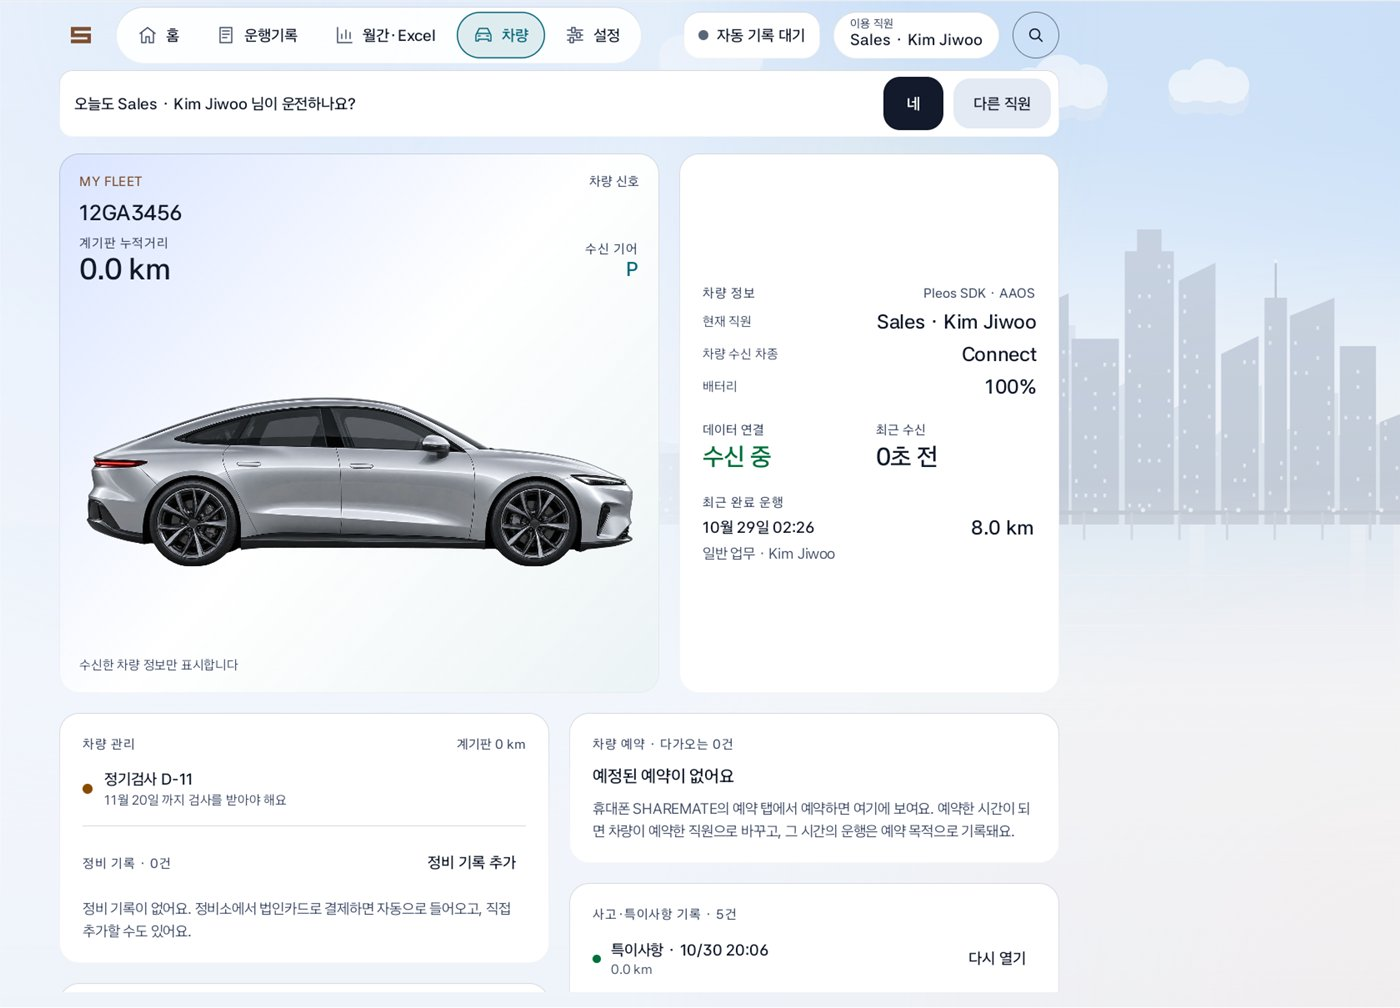
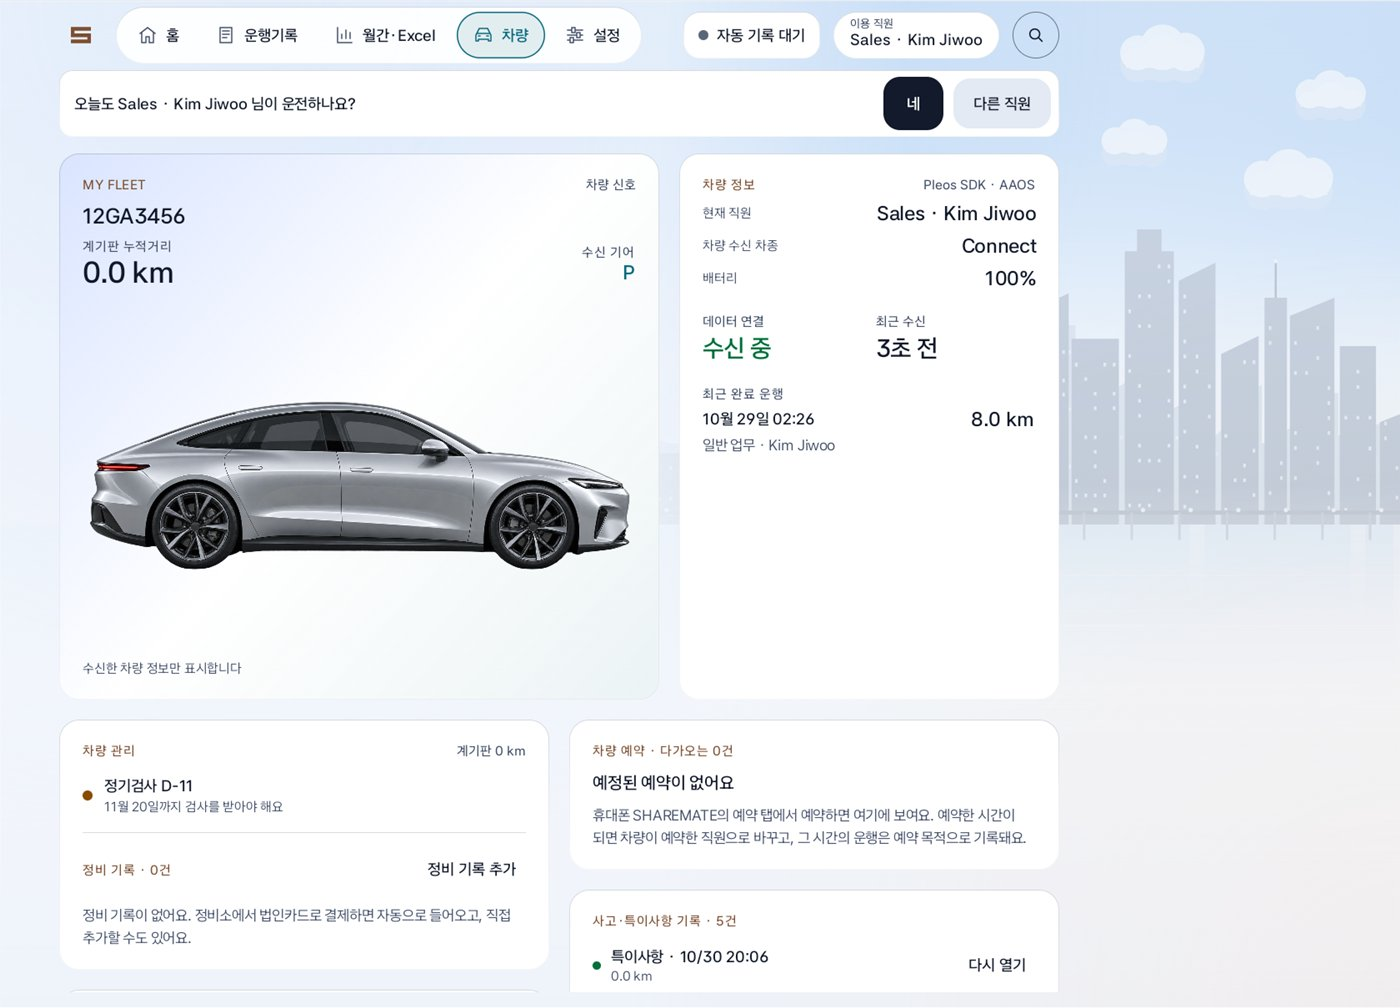
2.10 docs: screenshots and demo GIFs from the reviewed build, full verification record
- README: all 18 screenshots and both demo GIFs re-recorded on the build after the
  second review round. The car logbook shows October with a trip open, 월간·Excel shows
  the 올해 sheet preview, and phone 현황 shows the closed October. The scene bullet
  mentions the car light sensor.
- CORPORATE_LOGBOOK 2.10: the scene section adds the quiet-moment gate, the light-sensor
  veto, the process-level latch and configChanges. Layout adds the two-row narrow header,
  the one-scroll 월간·Excel and the paged preview. Motion adds keyed sweeps and the
  reduced-motion press. The verification record lists 357 tests, lint 0 errors and 15
  warnings, the design / code / accessibility review rounds and the emulator checks.

diff --git a/CORPORATE_LOGBOOK.md b/CORPORATE_LOGBOOK.md
@@ -8,14 +8,17 @@
 - **설정:** 차량 설정 › 기록, 휴대폰 설정의 ‘화면 분위기’에서 자동 · 낮 · 밤을 고릅니다. 선택은 기기의 환경설정에만 저장되고 운행일지 파일에는 들어가지 않습니다. 아래 한 줄이 지금 어느 장면인지, 언제 바뀌는지 말해 줍니다.
 - **낮 팔레트:** 하늘색 바탕(#EEF3FA) 위 흰 유리, 잉크 남색 글자(#121A2B), 활성 표시는 짙은 청록(#0B6B7E). 글자 색은 모두 흰 유리와 낮 바탕 위에서 WCAG AA 4.5:1 이상이고(SceneTest가 계산), 상태색(수신 중 초록 #00703C, 오류 빨강 #C62B0C)과 테두리(#6B7786), 선택 표시(채움 + 1.5 dp 테두리, 색만으로 구분하지 않음)를 따로 둡니다. 밤 팔레트는 2.8 그대로입니다.
 - **낮 도시:** 같은 스카이라인 형상을 아침 빛으로 칠합니다. 파란 하늘에서 따뜻한 지평선 안개로, 낮은 해와 구름, 옅은 푸른 건물과 물 위 반사. 인사말 뒤에는 흰 안개를 깔아 글자가 하늘 위에서도 읽힙니다. 해 질 무렵은 2.8의 주황 지평선, 밤은 더 어둡고 별이 많습니다.
-- **장면 전환:** 색을 중간값으로 섞지 않고 **페이드 스루**로 바꿉니다. 내용이 잠깐 바탕색으로 가라앉고, 팔레트·Material 색·Pleos 상태색·하늘이 한 번에 바뀐 뒤 내용이 다시 나타납니다(자동 800 ms, 설정에서 눌렀을 때 480 ms). 해는 제자리로 떠오르고 달은 가라앉습니다. 애니메이션 축소 설정에서는 즉시 바뀝니다. 주행 중에는 장면을 바꾸지 않고 정차 뒤에 적용합니다.
+- **장면 전환:** 색을 중간값으로 섞지 않고 **페이드 스루**로 바꿉니다. 내용이 잠깐 바탕색으로 가라앉고, 팔레트·Material 색·Pleos 상태색·하늘이 한 번에 바뀐 뒤 내용이 다시 나타납니다(자동 800 ms, 설정에서 눌렀을 때 480 ms). 해 질 무렵과 밤은 팔레트가 같아 내용을 가리지 않고 하늘만 교차합니다(`sceneChangeNeedsScrim`). 해는 제자리로 떠오르고 달은 가라앉습니다. 애니메이션 축소 설정에서는 즉시 바뀝니다. 주행 중에는 장면을 바꾸지 않고 정차 뒤에 적용합니다.
+- **조용한 순간에만:** 시계나 조도 센서로 생긴 변경은 3초 동안 화면을 만지지 않고, 입력 중인 칸이 없고, 창이 앞에 있을 때 적용합니다. 설정에서 자동 · 낮 · 밤을 누르면 바로 바뀝니다(`sceneChangeWait`).
+- **터널·지하 주차장(차량):** 자동 모드에서 차량의 조도 센서가 어둡다고 알리면(시스템 야간 모드) 90초 뒤 낮이나 해 질 무렵 화면도 밤으로 바꾸고, 밝아진 뒤 90초가 지나면 돌아옵니다. 밤으로 바꾸는 것은 10분에 한 번까지라 그늘을 지날 때마다 깜빡이지 않고, 그동안 설정 카드에 ‘지금은 터널·주차장이라 밤 화면이에요’가 보입니다. 낮이나 밤을 직접 고른 경우에는 따르지 않습니다(`sensorVetoStep`).
+- **다시 만들어져도 같은 장면:** 장면은 프로세스 단위로 기억해(`SceneController`) 주행 중 창이 다시 만들어져도 시계 기준 장면으로 튀지 않습니다. 세 Activity가 야간 모드·회전·크기 변경을 직접 받아(manifest `configChanges`) 화면을 새로 만들지 않습니다.
 - **시스템 막대:** 휴대폰 상태 표시줄 아이콘이 장면을 따라 낮에는 어둡게, 밤에는 밝게 바뀝니다.
 
 ## 2.10 여백과 배치
 
 - **폭 등급:** 차량 COMPACT(760 dp 미만) · MEDIUM · EXPANDED · FULL(1400 dp 이상, Pleos 전체 창). FULL에서는 양옆 여백 72 dp, 내용 폭 최대 1200 dp를 왼쪽에 붙이고 오른쪽 408 dp는 하늘로 남깁니다. 휴대폰은 COMPACT(600 미만) · MEDIUM(가로) · EXPANDED(태블릿)에서 내용을 가운데 두고 600 / 760 dp로 제한합니다. 높이도 SHORT(600 미만) · MEDIUM · TALL로 나눠 낮은 창에서는 히어로를 줄이고 시계를 머리줄로 올립니다. 글꼴 배율 1.3에서는 폭을 배율로 나눠 등급을 정하므로 큰 글꼴이 좁은 배치를 부르지 않습니다(`Layout.kt`).
 - **차량 홈:** 인사말 열 720 dp, 세 버튼이 1200 dp 열 안에 24 dp 간격으로, 위젯 둘이 그 아래. 가득 채우지 않습니다. 1.3배 글꼴에서는 버튼이 2 + 1로 접힙니다.
-- **다른 화면:** 운행기록(목록 560 + 상세), 월간·Excel(마감 카드 최대 760), 차량(차량 카드 720 + 정보 열), 설정(폼 최대 720)도 같은 여백과 최대 폭을 따르고, 좁거나 낮은 창에서는 한 열로 접힙니다.
+- **다른 화면:** 운행기록(목록 560 + 상세), 월간·Excel(마감 카드 최대 760), 차량(차량 카드 720 + 정보 열), 설정(폼 최대 720)도 같은 여백과 최대 폭을 따르고, 좁거나 낮은 창에서는 한 열로 접힙니다. 좁은 차량 창에서는 머리줄이 두 줄(로고·탭 / 상태·시계·직원)이 됩니다. 월간·Excel은 한 번에 스크롤되고, Excel 미리보기는 받은 높이에 들어가는 행 수로 페이지를 나눕니다(`previewRowsPerPage`). 휴대폰에서 Excel 시트 탭 다섯 개가 한 줄에 넘치면 폭을 나눠 씁니다.
 - **휴대폰:** 홈 카드 2×2, 가로 모드에서는 왼쪽 80 dp 유리 레일 탭과 인사말 왼쪽 · 카드 오른쪽, 태블릿에서는 카드 넷을 한 줄에, 1.3배 글꼴에서는 한 줄에 하나. 예약·운행·경비·현황과 시트도 같은 간격 체계를 쓰고 600 dp 이상에서는 두 열이나 폭 제한으로 늘어납니다.
 
 ## 2.10 움직임
@@ -24,25 +27,37 @@
 - **탭·구간:** 불이 켜진 알약이 미끄러지고(180 ms) 페이지는 24 dp 옆으로 밀리며 바뀝니다(220 ms). 머리줄·탭바·하늘은 움직이지 않습니다.
 - **처음 나타남:** 카드와 목록이 위에서 아래로 40 ms 간격으로 떠오릅니다(차량 5개, 휴대폰 8개까지). 돌아왔을 때나 동기화로 바뀔 때는 움직이지 않습니다.
 - **숫자:** 위젯 숫자와 건수는 옛 숫자가 사라지며 새 숫자가 6 dp 떠오릅니다(160 ms, `DigitChange`). 계기판·거리·배터리 같은 실시간 값과 시계는 세지 않고 바로 바뀝니다.
-- **링과 배지:** 완성률 링은 이전 값에서 새 값으로 쓸어 채우고(처음 600 ms, 이후 320 ms), 건수 배지는 숫자만 교차합니다.
-- **움직이지 않는 것:** 주행 중 화면, 시계와 실시간 수치, 스카이라인(패럴랙스·반짝임 없음), 상태색 점, 글자 크기. 모든 움직임은 시스템의 애니메이션 축소를 따릅니다.
+- **링과 배지:** 완성률 링은 이전 값에서 새 값으로 쓸어 채우고(처음 600 ms, 이후 320 ms), 한 번 채운 링은 탭을 오가도 처음부터 다시 채우지 않습니다(`sweepProgress`의 key). 건수 배지는 숫자만 교차합니다.
+- **움직이지 않는 것:** 주행 중 화면, 시계와 실시간 수치, 스카이라인(패럴랙스·반짝임 없음), 상태색 점, 글자 크기. 모든 움직임은 시스템의 애니메이션 축소를 따르고, 그때 누름은 가라앉는 대신 바로 .82로 흐려져 눌린 것만 알려 줍니다.
 
 ### 2.10.0 검증 기록
 
-2026-11-09, `gradlew testDebugUnitTest lintDebug assembleDebug` 통과: 단위 테스트 309건 전부 성공(새 SceneTest 10건: 장면 시각 규칙, 고정, 다음 전환 시각, 페이드 스루 타이밍, 안개 알파, 낮 팔레트 AA 대비, 배치 등급; HomeDashboardTest·PhoneMidnightTest·PhoneAuthUiTest·PhoneShellTest·PhoneFleetUiTest·PhoneReservationsUiTest에 배치 계획·문구·선택 표시 테스트 추가). lint 오류 0 · 경고 15(의존성 버전 안내).
+2026-11-09, `gradlew testDebugUnitTest lintDebug assembleDebug` 통과: 단위 테스트 357건 전부 성공, lint 오류 0 · 경고 15(의존성 버전 안내). 처음 구현 때의 309건(새 SceneTest 10건: 장면 시각 규칙, 고정, 다음 전환 시각, 페이드 스루 타이밍, 안개 알파, 낮 팔레트 AA 대비, 배치 등급)에 검토 수정으로 SceneControllerTest(터널 90초 규칙, 짧은 그늘 무시, 10분에 한 번, 다시 만들어진 화면의 장면, 조용한 순간 대기), MotionTest(축소 설정의 누름, 숫자 크기 변화), PhoneActivityTest(점검 단계 안내), SceneTest의 해 질 무렵 ↔ 밤 하늘만 교차 · 한국어 어절 줄바꿈 · 구름 위치 · 대비 검사, ExcelPreviewTest의 페이지당 행 수 · 시트 탭 폭 검사가 더해졌습니다.
+
+검토와 수정: 구현을 마친 뒤 디자인 24건, 코드 20건, 접근성 12건의 지적을 받아 두 차례에 나눠 모두 반영했습니다.
+
+- **낮 재질:** 낮 카드·위젯·탭 알약을 불투명한 흰 유리로 바꾸고(반투명 유리 아래 그림자가 회색 테두리처럼 비침) 윗면 광택을 뺐습니다. 선택 채움은 불투명 #E2EDF0, 밤 테두리는 #6E7A8F(유리 위 3.7:1).
+- **해와 달:** 인사말·카드·아이콘에 닿지 않는 빈 하늘에만 놓고, 인사말이 두 줄로 접혀도 그 옆에 보이게 했습니다. 탭을 바꿀 때 툭 나타나지 않고 하늘과 함께 서서히 바뀝니다.
+- **휴대폰 탭:** 내용이 아래 탭 알약 밑으로 이어서 스크롤되고, 예약 날짜 띠는 화면 끝까지, 예약이 없는 날은 시간 격자로 보이며, 지난 시간은 흐리게 하지 않고 채움만 뺍니다.
+- **차량 화면:** 좁은 창의 머리줄 두 줄, 월간·Excel 한 번의 스크롤, 빈 운행기록은 ‘이전 달 보기’ 카드 하나, 차량에서는 물결 효과 없이 가라앉기만, 대화상자 버튼과 메뉴 행 56 dp.
+- **접근성:** 운행 상세 시트는 뒤로 가기로 닫히고 열린 동안 아래 목록이 TalkBack에서 빠집니다. 점검 단계 표시는 탭 역할과 ‘현재 단계 / 완료’를 읽어 주고 칸마다 약 53 dp 폭입니다. 입력 칸의 쉬는 이름표와 안내문은 보조 글자색을 씁니다.
+- **장면 제어:** 프로세스 단위 기억, 조용한 순간 대기, 차량 조도 센서 규칙, manifest `configChanges`(위 ‘낮·밤 장면’ 참고).
+- **움직임과 문구:** 숫자 교차가 크기 변화에 잘리지 않고, 링은 돌아올 때 다시 채우지 않으며, 애니메이션 축소에서 누름은 바로 흐려집니다. 한국어는 어절 단위로 줄을 바꾸고, ‘11월 20일까지’처럼 조사를 붙여 쓰며, 섹션 머리말 색을 하나로 맞췄습니다.
 
 에뮬레이터에서 확인(Pleos 차량 사용자 10, 휴대폰 API 37, 둘 다 Asia/Seoul):
 
-- 차량 홈 낮·밤, 운행기록·월간·Excel·차량·설정 낮 화면: 내용이 왼쪽 1200 dp 열에 머물고 오른쪽은 하늘·도시. 설정 › 기록 › 화면 분위기에서 낮 ↔ 밤을 누르면 내용이 바탕색으로 가라앉았다 새 색으로 돌아오고 하늘이 교차합니다(중간 색 없음). 글꼴 1.3배에서 버튼이 2 + 1로 접히고 머리줄이 넘치지 않습니다.
-- 휴대폰 홈·예약·운행·현황·설정 낮·밤, 로그인 낮·밤, 처음 설정, 회사 차량 시트, 가로 모드(왼쪽 레일, 인사말 왼쪽 · 카드 오른쪽), 글꼴 1.3배의 현황.
-- 예약 흐름(낮): 빈 시간 → 신청서 → 일반 업무 · 목적지 → 신청 → 차량이 확정해 내 예약과 차량 홈 ‘다음 예약’ 줄에 표시 → 취소와 실행 취소.
-- 시연 영상 두 편을 `docs/demo/`에 GIF로 남겼습니다(차량 낮·밤 전환, 휴대폰 로그인 · 처음 설정 · 예약 · 차량 선택).
+- 차량 홈 낮·밤, 운행기록(10월, 운행 상세 열림)·월간·Excel(올해 Excel 미리보기)·차량·설정 낮 화면: 내용이 왼쪽 1200 dp 열에 머물고 오른쪽은 하늘·도시. 설정 › 기록 › 화면 분위기에서 낮 ↔ 밤을 누르면 내용이 바탕색으로 가라앉았다 새 색으로 돌아오고 하늘이 교차합니다(중간 색 없음). 글꼴 1.3배에서 버튼이 2 + 1로 접히고 머리줄이 넘치지 않습니다. 화면 밀도를 바꾼 좁은 창(약 843 dp)에서는 머리줄이 두 줄입니다.
+- 조도 센서 규칙(차량, 자동): 시스템 야간 모드를 켜면 약 90초 뒤 밤 화면으로 바뀌고 설정 카드에 터널·주차장 안내가 보이며, 끄면 90초 뒤 낮으로 돌아옵니다. 그동안 Activity는 다시 만들어지지 않았습니다(같은 프로세스).
+- 애니메이션 축소(animator 0): 움직임 없이 바로 바뀌고 화면은 그대로 동작합니다.
+- 휴대폰 홈·예약·운행·현황(10월 마감 100%)·설정 낮·밤, 로그인 낮·밤, 처음 설정, 회사 차량 시트, 가로 모드(왼쪽 레일, 인사말 왼쪽 · 카드 오른쪽), 글꼴 1.3배의 현황. 해는 두 줄 인사말 옆에 보이고, 현황의 Excel 시트 탭 다섯 개가 한 줄에 들어갑니다.
+- 예약 흐름(낮): 빈 시간 → 신청서 → 일반 업무 · 목적지 → 신청 → 차량이 확정해 내 예약과 회사 차량 시트에 표시 → 취소와 실행 취소.
+- 시연 영상 두 편을 `docs/demo/`에 GIF로 남기고(차량: 밤 → 낮 → 밤, 휴대폰: 로그인 · 처음 설정 · 예약 · 회사 차량), README의 스크린숏 18장을 이 버전에서 다시 찍었습니다.
 
 구현 중 고친 것: 병합 직후 하늘이 전혀 그려지지 않던 문제(장면 교차 안에서 스카이라인이 0×0으로 측정됨 → `fillMaxSize`), 설정 탭 전환 시 장면이 시계 변경(800 ms)으로 잘못 분류되던 문제(단계를 합성 안에서 계산).
 
-의도적으로 뺀 것: Pleos 조도 센서로 밤을 강제하는 규칙과 manifest의 configChanges(에뮬레이터에서 확인할 수 없어 보류), LookaheadScope 기반 배치 전환(animateContentSize로 대체), 운전자 확인 줄을 히어로에 접는 변경.
+의도적으로 뺀 것: LookaheadScope 기반 배치 전환(animateContentSize로 대체), 운전자 확인 줄을 히어로에 접는 변경. `SharemateTheme`과 `LightColors`는 이전 화면(SharemateUi.kt)이 아직 불러서 남겼습니다.
 
-확인하지 못한 것: 실제 일출·일몰 시각에 자동으로 바뀌는 순간(에뮬레이터 시계를 그 시각으로 맞추지 않음), 태블릿 폭(840 dp 이상)의 실제 기기, 실차 화면.
+확인하지 못한 것: 실제 일출·일몰 시각에 자동으로 바뀌는 순간(에뮬레이터 시계를 그 시각으로 맞추지 않음), 실제 조도 센서(에뮬레이터에서는 시스템 야간 모드로 대신함), 태블릿 폭(840 dp 이상)의 실제 기기, 실차 화면.
 
 # SHAREMATE 2.9.0 — 법인차 자동 운행일지
 

diff --git a/README.md b/README.md
@@ -22,7 +22,7 @@ SHAREMATE는 법인 차량을 쓰는 회사의 운전자와 관리자를 위한 
 | **차량** | **운행기록** |
 | <img src="docs/screenshots/car-vehicle.jpg" alt="차량: 차량 카드, 차량 정보, 차량 관리 기한, 다가오는 예약, 사고·특이사항 기록" width="560"> | <img src="docs/screenshots/car-log.jpg" alt="운행기록: 월 이동, 전체·점검 필요·자동 반영 구분, 운행 목록과 운행 상세" width="560"> |
 | **월간·Excel** | **설정** |
-| <img src="docs/screenshots/car-report.jpg" alt="월간·Excel: 월 마감 단계와 Excel 시트 미리보기" width="560"> | <img src="docs/screenshots/car-settings.jpg" alt="설정 › 기록: 화면 분위기(자동·낮·밤), 기록 방식과 개인정보" width="560"> |
+| <img src="docs/screenshots/car-report.jpg" alt="월간·Excel(올해): 운행기록부 시트 미리보기와 운행·직원·경비·차량·확인 시트 탭, Excel 저장 버튼" width="560"> | <img src="docs/screenshots/car-settings.jpg" alt="설정 › 기록: 화면 분위기(자동·낮·밤), 기록 방식과 개인정보" width="560"> |
 
 ### 휴대폰
 
@@ -32,7 +32,7 @@ SHAREMATE는 법인 차량을 쓰는 회사의 운전자와 관리자를 위한 
 | **홈 · 밤** | **예약** | **예약 신청서** |
 | <img src="docs/screenshots/phone-home-night.jpg" alt="휴대폰 홈(밤)" width="200"> | <img src="docs/screenshots/phone-booking.jpg" alt="예약 탭: 차량 상태, 14일 날짜 띠, 하루 시간표" width="200"> | <img src="docs/screenshots/phone-booking-form.jpg" alt="예약 신청서: 시작·끝 시각, 목적, 목적지, 메모, 예약 신청 버튼" width="200"> |
 | **회사 차량** | **운행** | **현황** |
-| <img src="docs/screenshots/phone-fleet.jpg" alt="회사 차량 시트: 등록한 차량과 상태, 삭제, 차량 추가" width="200"> | <img src="docs/screenshots/phone-trips.jpg" alt="운행 탭: 직원 칩, 월 머리줄, 날짜별 운행과 목적" width="200"> | <img src="docs/screenshots/phone-report.jpg" alt="현황 탭: 이달 운행일지, 차량 관리, Excel 미리보기" width="200"> |
+| <img src="docs/screenshots/phone-fleet.jpg" alt="회사 차량 시트: 등록한 차량과 상태, 삭제, 차량 추가" width="200"> | <img src="docs/screenshots/phone-trips.jpg" alt="운행 탭: 직원 칩, 월 머리줄, 날짜별 운행과 목적" width="200"> | <img src="docs/screenshots/phone-report.jpg" alt="현황 탭(10월): 운행일지 100% 완성, 목적·카드 확인·Excel 저장·마감 단계와 마감됨 표시" width="200"> |
 | **설정** | **로그인 · 밤** | |
 | <img src="docs/screenshots/phone-settings.jpg" alt="휴대폰 설정: 계정 카드와 로그아웃, 차량 연결, 카드 자동 연동" width="200"> | <img src="docs/screenshots/phone-signin-night.jpg" alt="휴대폰 로그인(밤)" width="200"> | |
 
@@ -55,7 +55,7 @@ SHAREMATE는 법인 차량을 쓰는 회사의 운전자와 관리자를 위한 
 - **차량 관리 기한:** 정기검사·보험·리스 만기와 정비 주기를 등록하면 30일 또는 1,000 km 안에 다가올 때 알려 줍니다. 정비소 카드 결제는 정비 이력으로도 남습니다.
 - **사고·특이사항 원탭:** 홈의 버튼 한 번으로 시각·계기판·위치·운전자가 기록되고, 이어서 대처 단계를 보여 줍니다. 잘못 눌렀다면 바로 되돌릴 수 있습니다.
 - **운행 비서(로컬 규칙):** “주차비 4,500원 추가해줘”처럼 적으면 목적 기록·비용 추가·요약을 처리합니다. 차량 안의 한국어 문장 규칙으로 동작하며 네트워크를 쓰지 않습니다.
-- **낮·밤 화면:** 홈의 도시 장면이 시계에 맞춰 낮·해 질 무렵·밤으로 바뀌고, 모든 화면의 색이 함께 바뀝니다. 설정에서 자동·낮·밤을 고를 수 있고, 주행 중에는 바뀌지 않습니다.
+- **낮·밤 화면:** 홈의 도시 장면이 시계에 맞춰 낮·해 질 무렵·밤으로 바뀌고, 모든 화면의 색이 함께 바뀝니다. 지하 주차장처럼 차량의 조도 센서가 어둡다고 알리면 자동 모드에서도 밤 화면을 씁니다. 설정에서 자동·낮·밤을 고를 수 있고, 주행 중에는 바뀌지 않습니다.
 - **여백과 움직임:** 화면을 가득 채우지 않고 왼쪽 한 열에 내용을 두어 오른쪽은 하늘로 남깁니다. 카드와 탭은 누르면 살짝 가라앉고, 페이지는 옆으로 밀리며, 숫자는 바뀔 때 떠오릅니다. 시스템의 애니메이션 축소 설정을 따릅니다.
 
 주행 중에는 거리와 기록 상태만 남기고 버튼·입력·시트를 모두 닫습니다(Pleos 주행 제한).
@@ -114,7 +114,7 @@ SHAREMATE는 법인 차량을 쓰는 회사의 운전자와 관리자를 위한 
 - **동기화:** 차량 안의 로컬 TLS 동기화 서버(포트 9247), 6자리 번호로 연결
 - **데이터 위치:** 외부 서버가 없습니다. 기록은 차량에 남고, 휴대폰은 사본과 명령만 주고받습니다.
 - **Excel:** 기기에서 직접 `.xlsx`를 만듭니다.
-- **장면:** 서울의 달별 대략적 일출·일몰 시각으로 낮·해 질 무렵·밤을 정하고, 장면이 바뀔 때는 내용이 잠깐 사라졌다 새 색으로 돌아오는 페이드 스루로 넘어갑니다.
+- **장면:** 서울의 달별 대략적 일출·일몰 시각으로 낮·해 질 무렵·밤을 정하고(차량은 조도 센서도 함께 봅니다), 장면이 바뀔 때는 내용이 잠깐 사라졌다 새 색으로 돌아오는 페이드 스루로 넘어갑니다.
 
 **알아 두실 점**
 
